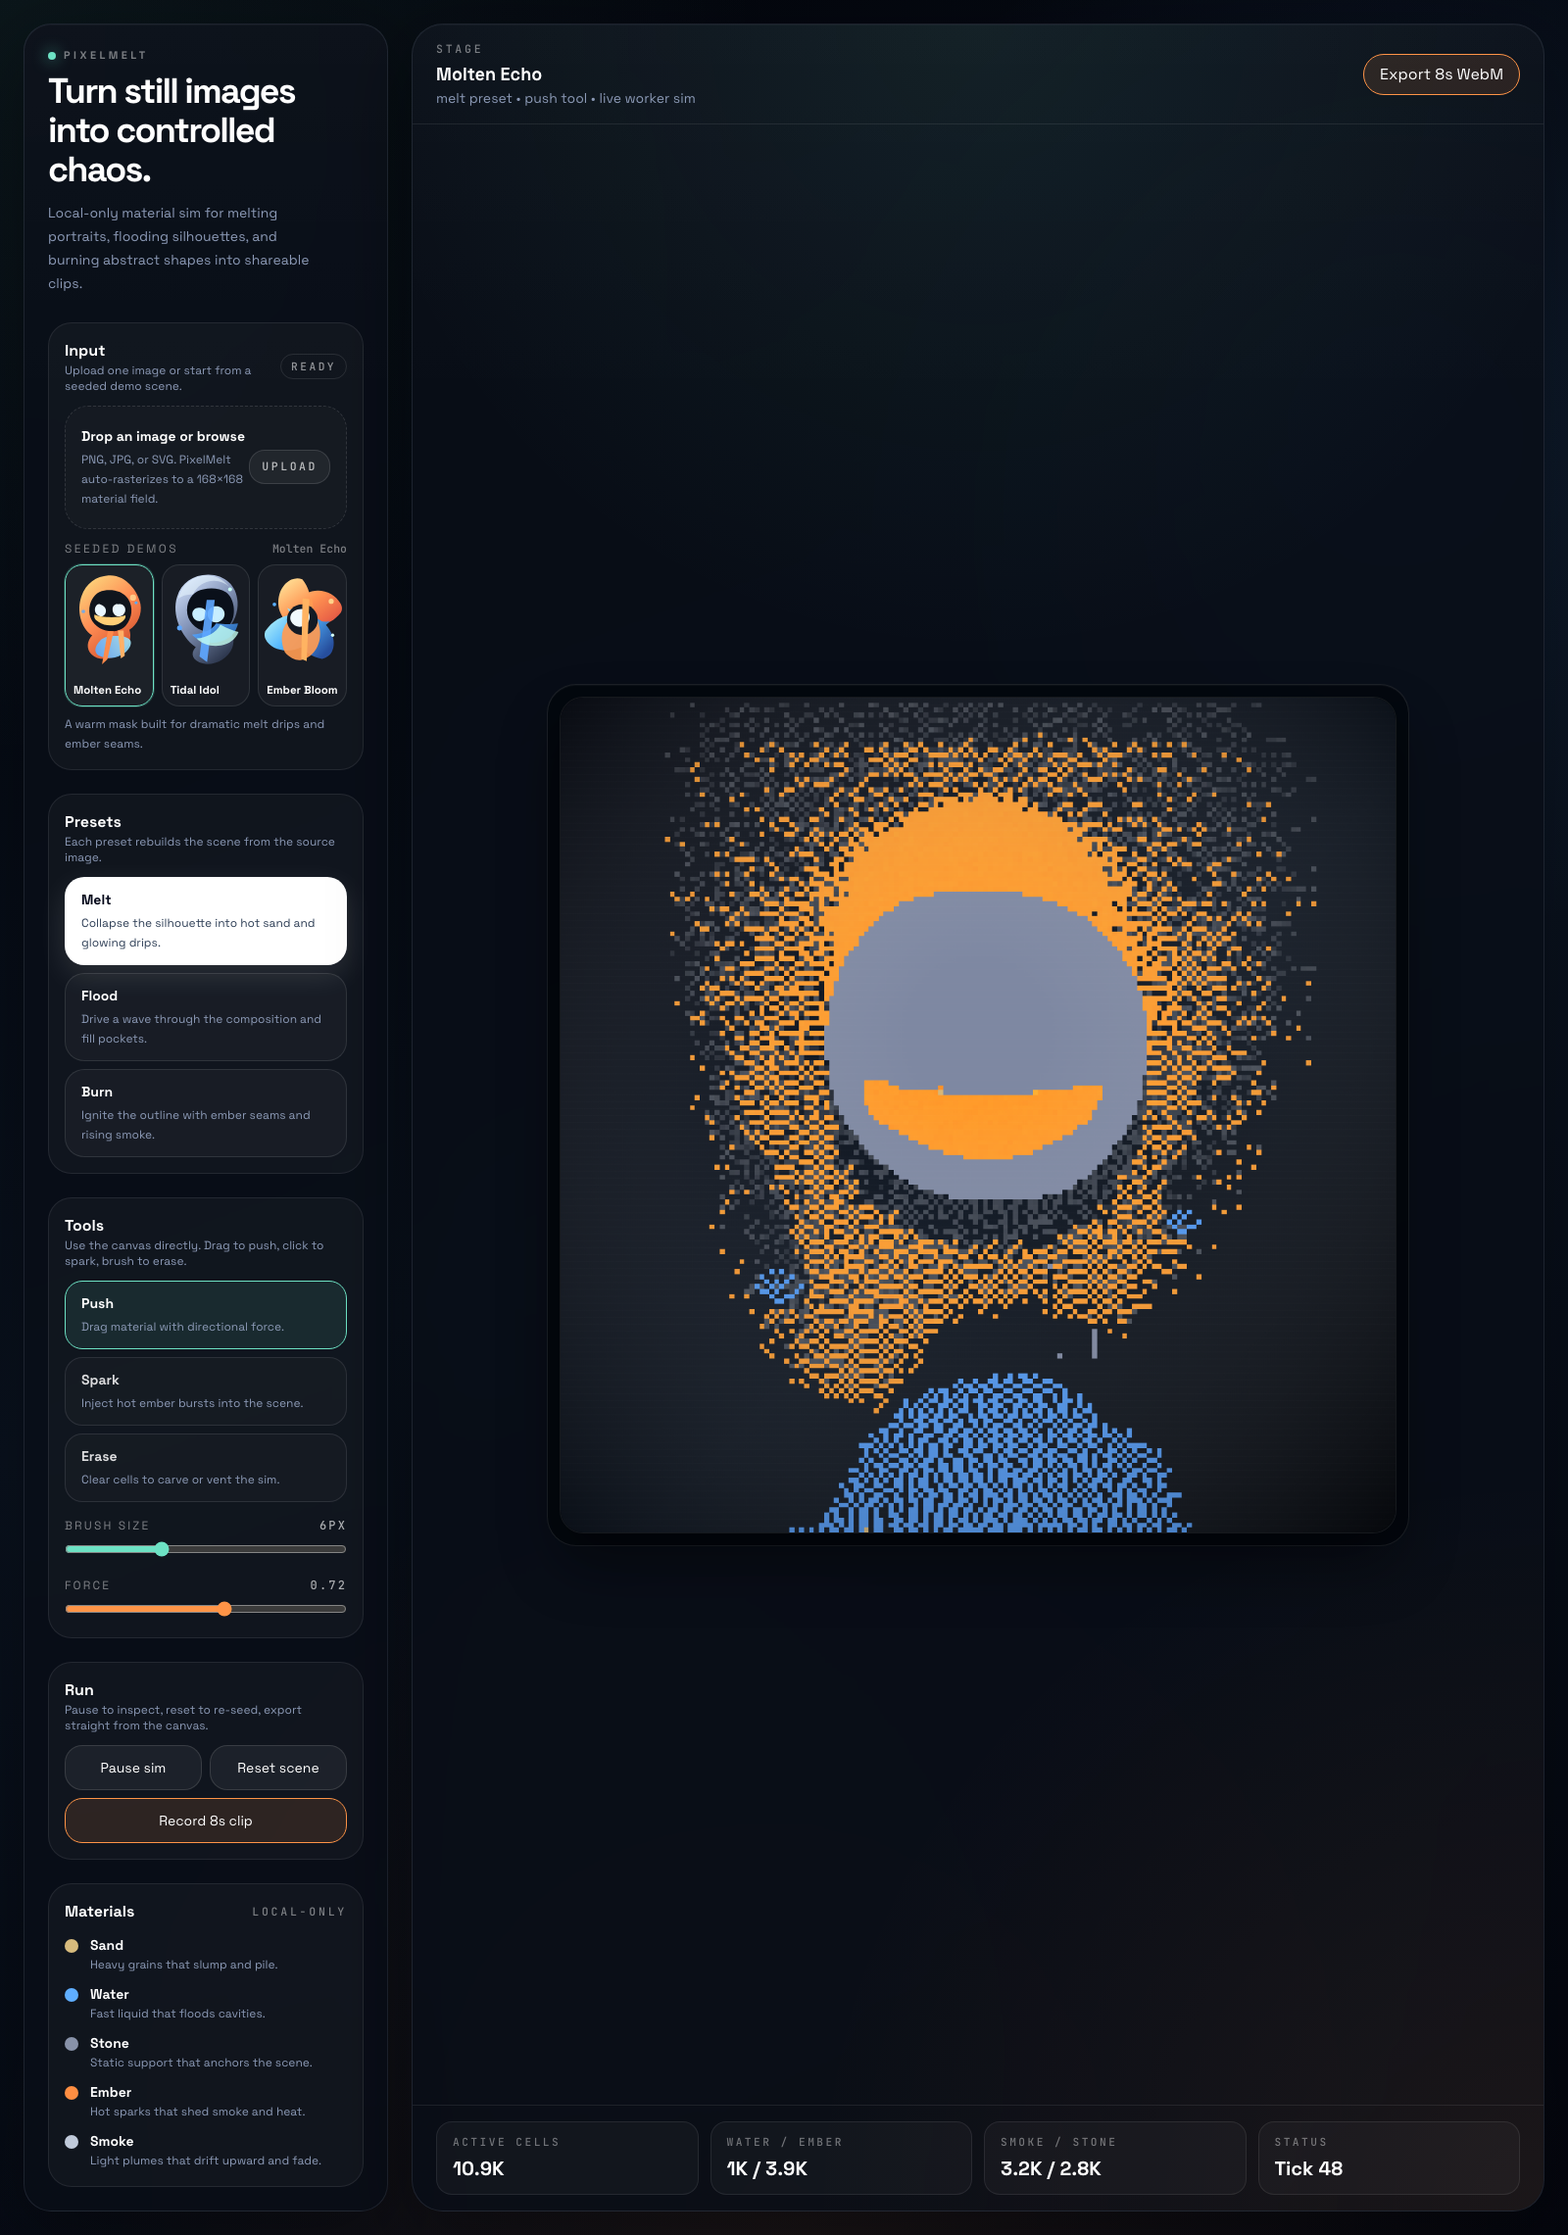
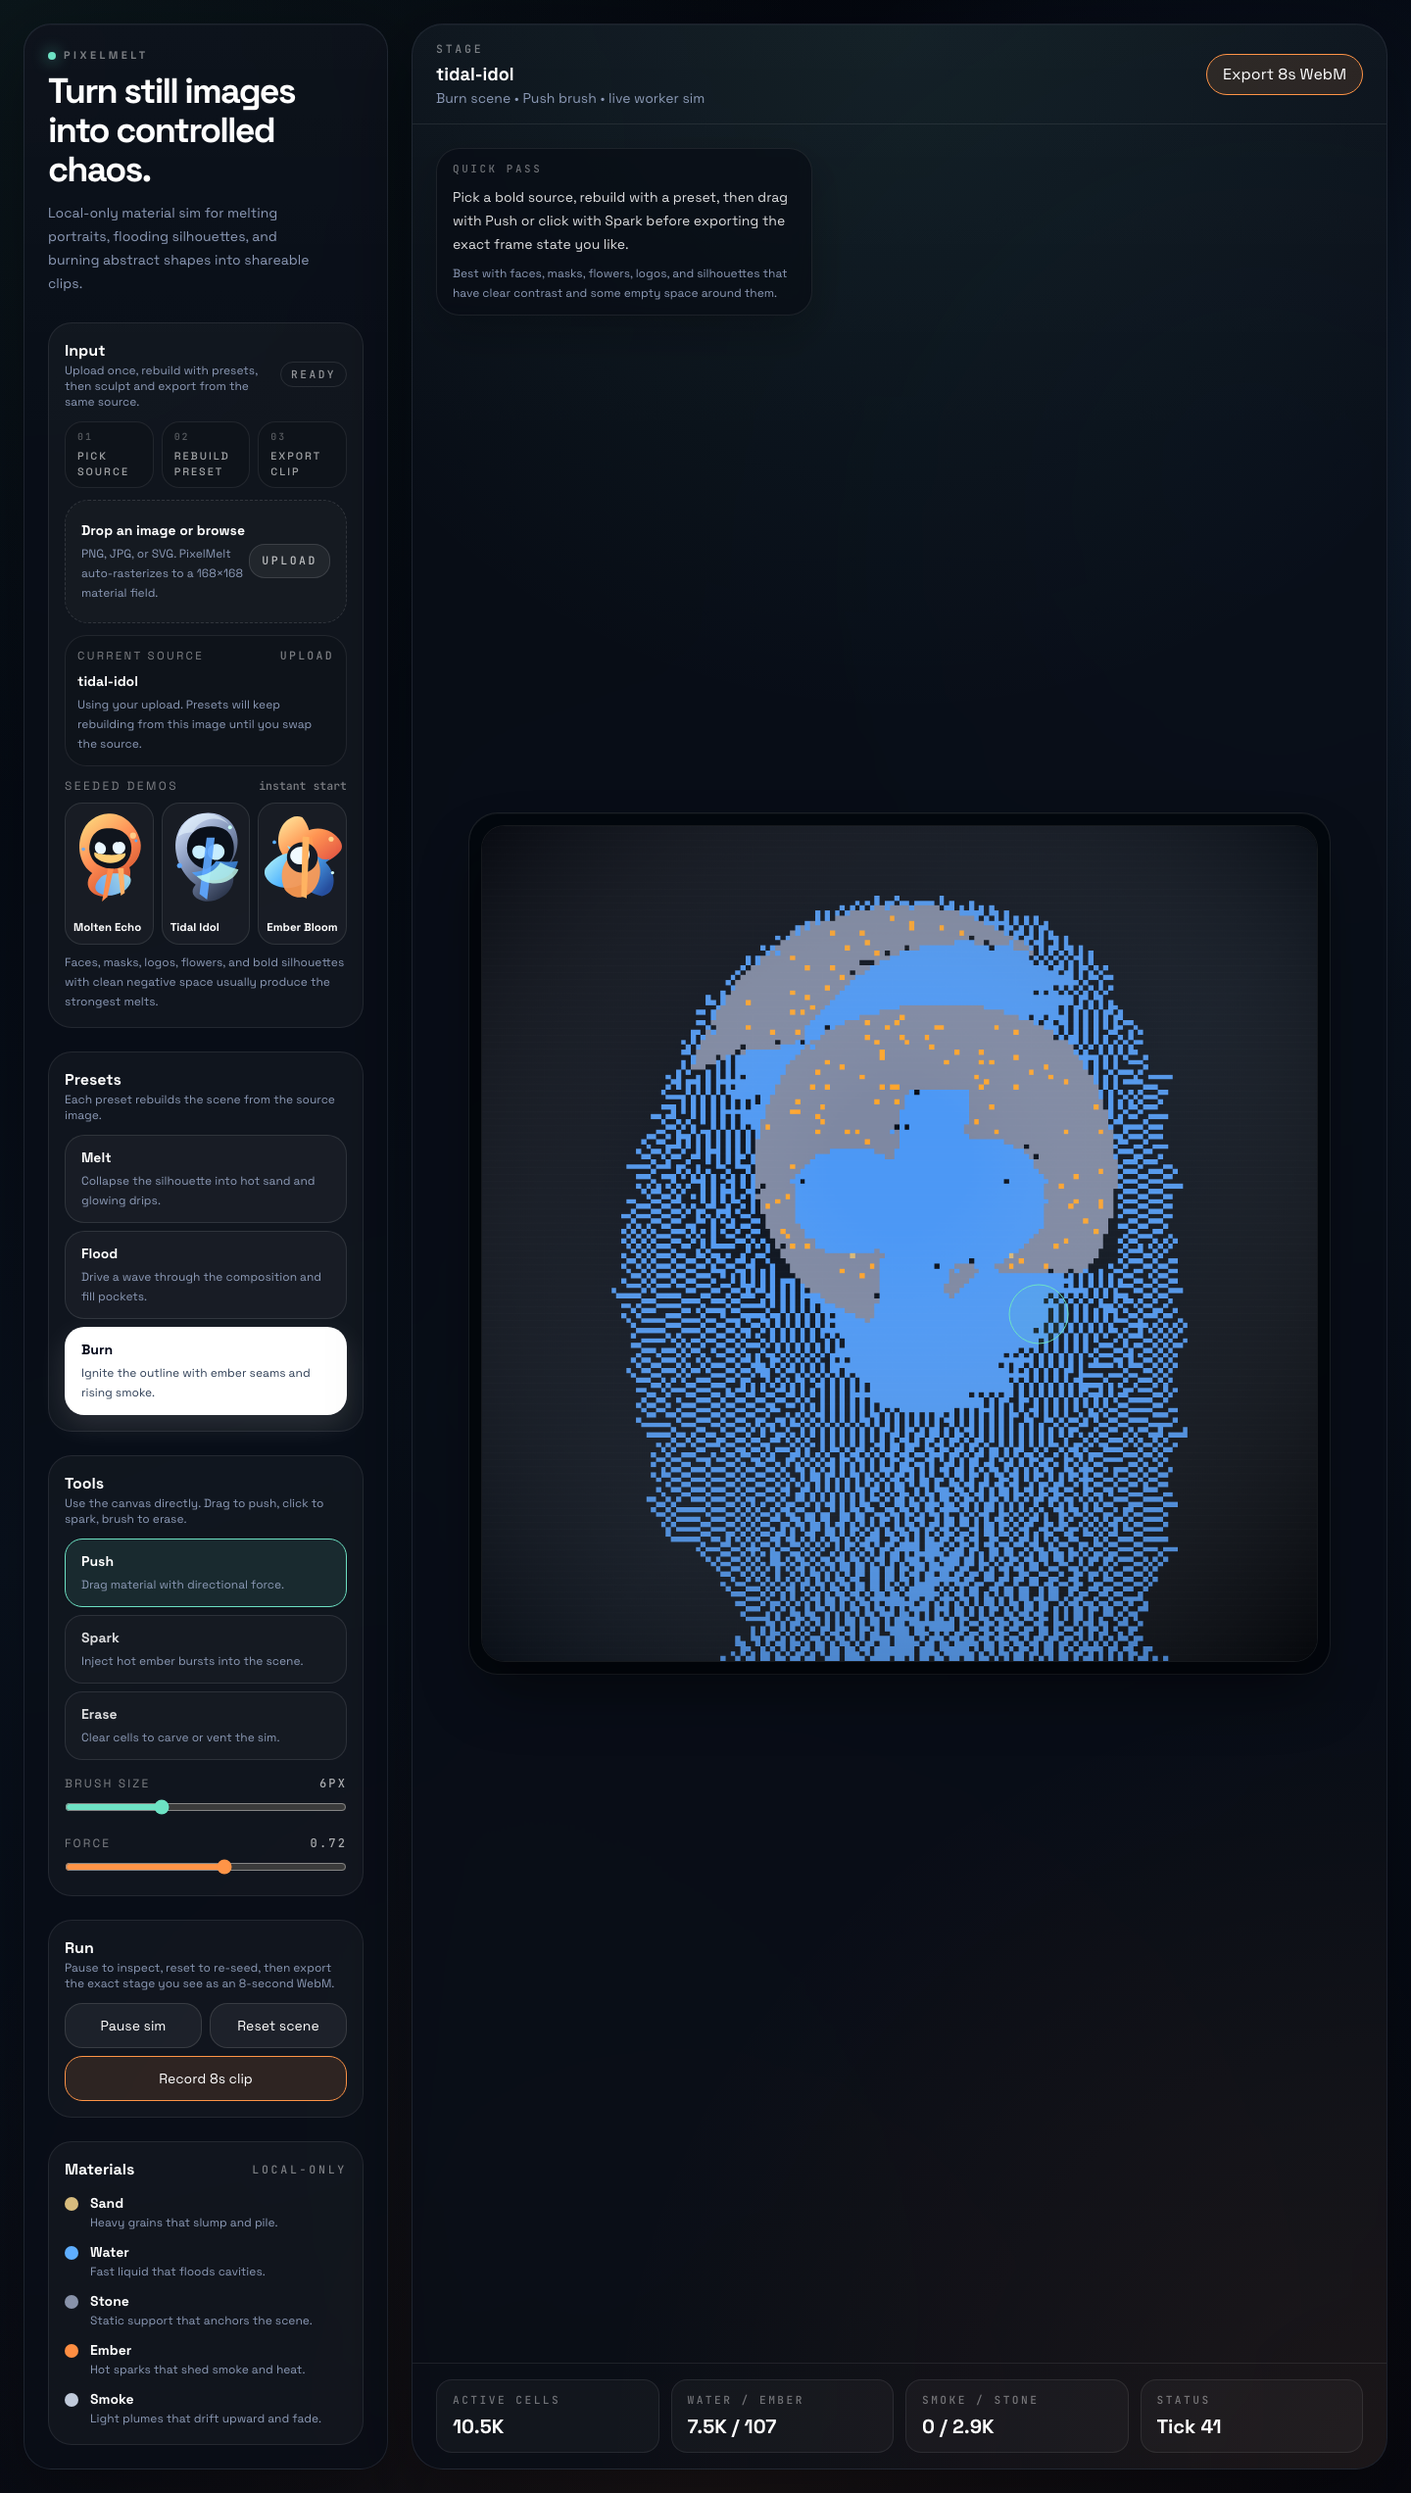
Polish onboarding and export guidance

diff --git a/src/components/ControlPanel.tsx b/src/components/ControlPanel.tsx
@@ -51,6 +51,8 @@ export function ControlPanel({
 }: ControlPanelProps) {
   const inputRef = useRef<HTMLInputElement>(null)
   const [isDragging, setIsDragging] = useState(false)
+  const activeDemo = demos.find((demo) => demo.id === selectedDemoId) ?? null
+  const usingCustomSource = activeDemo === null
 
   const recordLabel =
     recording.status === 'recording'
@@ -60,6 +62,8 @@ export function ControlPanel({
         : 'Record 8s clip'
 
   const interactionDisabled = sceneStatus === 'booting' || sceneStatus === 'loading'
+  const runControlsDisabled = sceneStatus !== 'ready'
+  const recordDisabled = runControlsDisabled || recording.status === 'recording' || recording.status === 'saving'
 
   return (
     <aside className="pm-panel pm-scrollbar flex h-full min-h-[calc(100vh-3rem)] flex-col overflow-y-auto rounded-[28px] p-6 text-sm text-white/90">
@@ -80,11 +84,20 @@ export function ControlPanel({
         <div className="flex items-center justify-between">
           <div>
             <h2 className="text-base font-semibold text-white">Input</h2>
-            <p className="text-xs text-[var(--pm-text-muted)]">Upload one image or start from a seeded demo scene.</p>
+            <p className="text-xs text-[var(--pm-text-muted)]">Upload once, rebuild with presets, then sculpt and export from the same source.</p>
           </div>
           <span className="rounded-full border border-white/10 px-2.5 py-1 font-mono text-[0.7rem] uppercase tracking-[0.22em] text-white/55">
             {sceneStatus}
           </span>
+        </div>
+
+        <div className="grid grid-cols-3 gap-2 text-[0.68rem] font-medium uppercase tracking-[0.18em] text-white/60">
+          {['pick source', 'rebuild preset', 'export clip'].map((step, index) => (
+            <div key={step} className="rounded-[18px] border border-white/8 bg-black/10 px-3 py-2">
+              <div className="font-mono text-[0.62rem] text-white/30">0{index + 1}</div>
+              <div className="mt-1 leading-4">{step}</div>
+            </div>
+          ))}
         </div>
 
         <button
@@ -144,10 +157,23 @@ export function ControlPanel({
           }}
         />
 
+        <div className="rounded-[22px] border border-white/8 bg-black/10 p-3">
+          <div className="flex items-center justify-between text-[0.72rem] uppercase tracking-[0.2em] text-white/45">
+            <span>Current source</span>
+            <span className="font-mono">{usingCustomSource ? 'upload' : 'demo'}</span>
+          </div>
+          <div className="mt-2 text-sm font-semibold text-white">{sourceLabel}</div>
+          <p className="mt-1 text-xs leading-5 text-[var(--pm-text-muted)]">
+            {usingCustomSource
+              ? 'Using your upload. Presets will keep rebuilding from this image until you swap the source.'
+              : activeDemo.description}
+          </p>
+        </div>
+
         <div className="space-y-2">
           <div className="flex items-center justify-between">
             <span className="text-xs uppercase tracking-[0.2em] text-white/45">Seeded demos</span>
-            <span className="font-mono text-[0.72rem] text-white/45">{sourceLabel}</span>
+            <span className="font-mono text-[0.72rem] text-white/45">instant start</span>
           </div>
           <div className="grid grid-cols-3 gap-2">
             {demos.map((demo) => (
@@ -170,7 +196,7 @@ export function ControlPanel({
             ))}
           </div>
           <p className="text-xs leading-5 text-[var(--pm-text-muted)]">
-            {demos.find((demo) => demo.id === selectedDemoId)?.description}
+            Faces, masks, logos, flowers, and bold silhouettes with clean negative space usually produce the strongest melts.
           </p>
         </div>
 
@@ -273,31 +299,41 @@ export function ControlPanel({
       <section className="mb-6 rounded-3xl border border-white/8 bg-white/[0.03] p-4">
         <div className="mb-3">
           <h2 className="text-base font-semibold text-white">Run</h2>
-          <p className="text-xs text-[var(--pm-text-muted)]">Pause to inspect, reset to re-seed, export straight from the canvas.</p>
+          <p className="text-xs text-[var(--pm-text-muted)]">Pause to inspect, reset to re-seed, then export the exact stage you see as an 8-second WebM.</p>
         </div>
         <div className="grid grid-cols-2 gap-2">
           <button
             type="button"
             onClick={onPauseToggle}
-            className="rounded-[18px] border border-white/12 bg-white/[0.05] px-4 py-3 font-semibold text-white transition hover:border-white/22 hover:bg-white/[0.08]"
+            disabled={runControlsDisabled}
+            className={cn(
+              'rounded-[18px] border border-white/12 bg-white/[0.05] px-4 py-3 font-semibold text-white transition',
+              runControlsDisabled ? 'cursor-not-allowed opacity-50' : 'hover:border-white/22 hover:bg-white/[0.08]',
+            )}
           >
             {paused ? 'Resume sim' : 'Pause sim'}
           </button>
           <button
             type="button"
             onClick={onReset}
-            className="rounded-[18px] border border-white/12 bg-white/[0.05] px-4 py-3 font-semibold text-white transition hover:border-white/22 hover:bg-white/[0.08]"
+            disabled={runControlsDisabled}
+            className={cn(
+              'rounded-[18px] border border-white/12 bg-white/[0.05] px-4 py-3 font-semibold text-white transition',
+              runControlsDisabled ? 'cursor-not-allowed opacity-50' : 'hover:border-white/22 hover:bg-white/[0.08]',
+            )}
           >
             Reset scene
           </button>
           <button
             type="button"
             onClick={onRecord}
-            disabled={recording.status === 'recording' || recording.status === 'saving'}
+            disabled={recordDisabled}
             className={cn(
               'col-span-2 rounded-[18px] border px-4 py-3 font-semibold transition',
-              recording.status === 'recording' || recording.status === 'saving'
-                ? 'cursor-progress border-amber-300/20 bg-amber-300/10 text-amber-100'
+              recordDisabled
+                ? recording.status === 'recording' || recording.status === 'saving'
+                  ? 'cursor-progress border-amber-300/20 bg-amber-300/10 text-amber-100'
+                  : 'cursor-not-allowed border-white/10 bg-white/[0.03] text-white/45'
                 : 'border-[var(--pm-warm)] bg-[rgba(255,148,71,0.12)] text-white hover:bg-[rgba(255,148,71,0.2)]',
             )}
           >

diff --git a/src/components/CanvasStage.tsx b/src/components/CanvasStage.tsx
@@ -39,6 +39,20 @@ function formatCompactCount(value: number): string {
   return new Intl.NumberFormat('en-US', { notation: 'compact', maximumFractionDigits: 1 }).format(value)
 }
 
+function formatUiLabel(value: string): string {
+  return value.charAt(0).toUpperCase() + value.slice(1)
+}
+
+function slugifyFilenamePart(value: string): string {
+  const normalized = value
+    .toLowerCase()
+    .trim()
+    .replace(/[^a-z0-9]+/g, '-')
+    .replace(/^-+|-+$/g, '')
+
+  return normalized || 'untitled'
+}
+
 export const CanvasStage = forwardRef<CanvasStageHandle, CanvasStageProps>(function CanvasStage(
   { controller, activeTool, activePreset, brushSize, brushIntensity, sourceLabel, paused, sceneStatus },
   ref,
@@ -194,7 +208,7 @@ export const CanvasStage = forwardRef<CanvasStageHandle, CanvasStageProps>(funct
 
   async function recordClip(): Promise<void> {
     const canvas = displayCanvasRef.current
-    if (!canvas) {
+    if (!canvas || sceneStatus !== 'ready' || !latestPayloadRef.current) {
       return
     }
 
@@ -229,7 +243,8 @@ export const CanvasStage = forwardRef<CanvasStageHandle, CanvasStageProps>(funct
       })
 
       const timestamp = new Date().toISOString().replaceAll(':', '-')
-      downloadBlob(blob, `pixelmelt-${activePreset}-${timestamp}.webm`)
+      const sourceSlug = slugifyFilenamePart(sourceLabel)
+      downloadBlob(blob, `pixelmelt-${sourceSlug}-${activePreset}-${timestamp}.webm`)
 
       usePixelMeltStore.getState().setRecording({
         status: 'done',
@@ -259,6 +274,7 @@ export const CanvasStage = forwardRef<CanvasStageHandle, CanvasStageProps>(funct
 
   const metrics = hudPayload?.metrics
   const hasFrame = Boolean(hudPayload)
+  const exportDisabled = sceneStatus !== 'ready' || !hasFrame || recording.status === 'recording' || recording.status === 'saving'
 
   return (
     <section className="pm-panel relative flex min-h-[calc(100vh-3rem)] flex-1 flex-col overflow-hidden rounded-[32px]">
@@ -268,19 +284,39 @@ export const CanvasStage = forwardRef<CanvasStageHandle, CanvasStageProps>(funct
           <div className="font-mono text-[0.72rem] uppercase tracking-[0.24em] text-white/45">Stage</div>
           <div className="mt-1 text-lg font-semibold text-white">{sourceLabel}</div>
           <div className="text-sm text-[var(--pm-text-muted)]">
-            {activePreset} preset • {activeTool} tool • {paused ? 'paused' : 'live worker sim'}
+            {formatUiLabel(activePreset)} scene • {formatUiLabel(activeTool)} brush • {paused ? 'paused' : 'live worker sim'}
           </div>
         </div>
         <button
           type="button"
           onClick={() => void recordClip()}
-          className="rounded-full border border-[var(--pm-warm)] bg-[rgba(255,148,71,0.12)] px-4 py-2 text-sm font-semibold text-white transition hover:bg-[rgba(255,148,71,0.2)]"
+          disabled={exportDisabled}
+          className={cn(
+            'rounded-full border px-4 py-2 text-sm font-semibold transition',
+            exportDisabled
+              ? 'cursor-not-allowed border-white/10 bg-white/[0.03] text-white/45'
+              : 'border-[var(--pm-warm)] bg-[rgba(255,148,71,0.12)] text-white hover:bg-[rgba(255,148,71,0.2)]',
+          )}
         >
           Export 8s WebM
         </button>
       </div>
 
       <div className="relative flex flex-1 items-center justify-center px-6 py-6">
+        {sceneStatus === 'ready' && (
+          <div className="pointer-events-none absolute left-6 top-6 hidden max-w-sm xl:block">
+            <div className="rounded-[24px] border border-white/8 bg-[rgba(7,11,19,0.72)] px-4 py-3 shadow-[0_18px_40px_rgba(0,0,0,0.22)] backdrop-blur">
+              <div className="font-mono text-[0.68rem] uppercase tracking-[0.24em] text-white/40">Quick pass</div>
+              <p className="mt-2 text-sm leading-6 text-white/85">
+                Pick a bold source, rebuild with a preset, then drag with Push or click with Spark before exporting the exact frame state you like.
+              </p>
+              <p className="mt-2 text-xs leading-5 text-[var(--pm-text-muted)]">
+                Best with faces, masks, flowers, logos, and silhouettes that have clear contrast and some empty space around them.
+              </p>
+            </div>
+          </div>
+        )}
+
         <div className="relative flex aspect-square w-full max-w-[880px] items-center justify-center rounded-[30px] border border-white/10 bg-[rgba(2,5,11,0.72)] p-3 shadow-[inset_0_1px_0_rgba(255,255,255,0.04)]">
           <canvas
             ref={displayCanvasRef}

diff --git a/README.md b/README.md
@@ -6,6 +6,8 @@ PixelMelt is a desktop-first, local-only web app that turns a single image into 
 
 The entire product runs client-side. There is no backend, no auth, no database, and no paid API dependency.
 
+Best results come from faces, masks, flowers, logos, and other bold silhouettes with clear contrast and some negative space around the subject.
+
 ## Highlights
 
 - Upload one image and convert it into a 168x168 material map.
@@ -47,6 +49,15 @@ npm run preview
 npm run check
 ```
 
+## First Run In 20 Seconds
+
+1. Launch the app. `Molten Echo` loads automatically.
+2. Click `Flood` or `Burn` to see how the same source rebuilds into a different scene.
+3. Drag on the stage with `Push`, then switch to `Spark` and click into the hot areas.
+4. Hit `Export 8s WebM` after you like the motion.
+
+If the export controls are disabled, wait for the stage to finish loading and show the first live frame.
+
 ## Demo Flow
 
 1. Launch the app. `Molten Echo` loads automatically.
@@ -56,6 +67,13 @@ npm run check
 5. Switch to `Erase` to carve vents or remove buildup.
 6. Upload your own image with the drop zone or file picker.
 7. Click `Record 8s clip` to export a WebM of the live simulation.
+
+## Source Image Tips
+
+- High-contrast subjects read best at `168x168`.
+- Clear silhouettes usually produce the most dramatic melt and burn passes.
+- Transparent or simple backgrounds convert more cleanly than busy photos.
+- Portraits, icons, flowers, masks, and graphic shapes are the sweet spot.
 
 ## How It Works
 
@@ -97,7 +115,7 @@ The canvas renderer in [`src/components/CanvasStage.tsx`](./src/components/Canva
 
 ### 4. Clip Export
 
-PixelMelt records directly from the display canvas using `canvas.captureStream()` and `MediaRecorder`. Export is intentionally fixed to 8 seconds so the output is lightweight and easy to share.
+PixelMelt records directly from the display canvas using `canvas.captureStream()` and `MediaRecorder`. Export is intentionally fixed to 8 seconds so the output is lightweight and easy to share, and the downloaded file name includes the active source and preset.
 
 ## Project Structure
 
